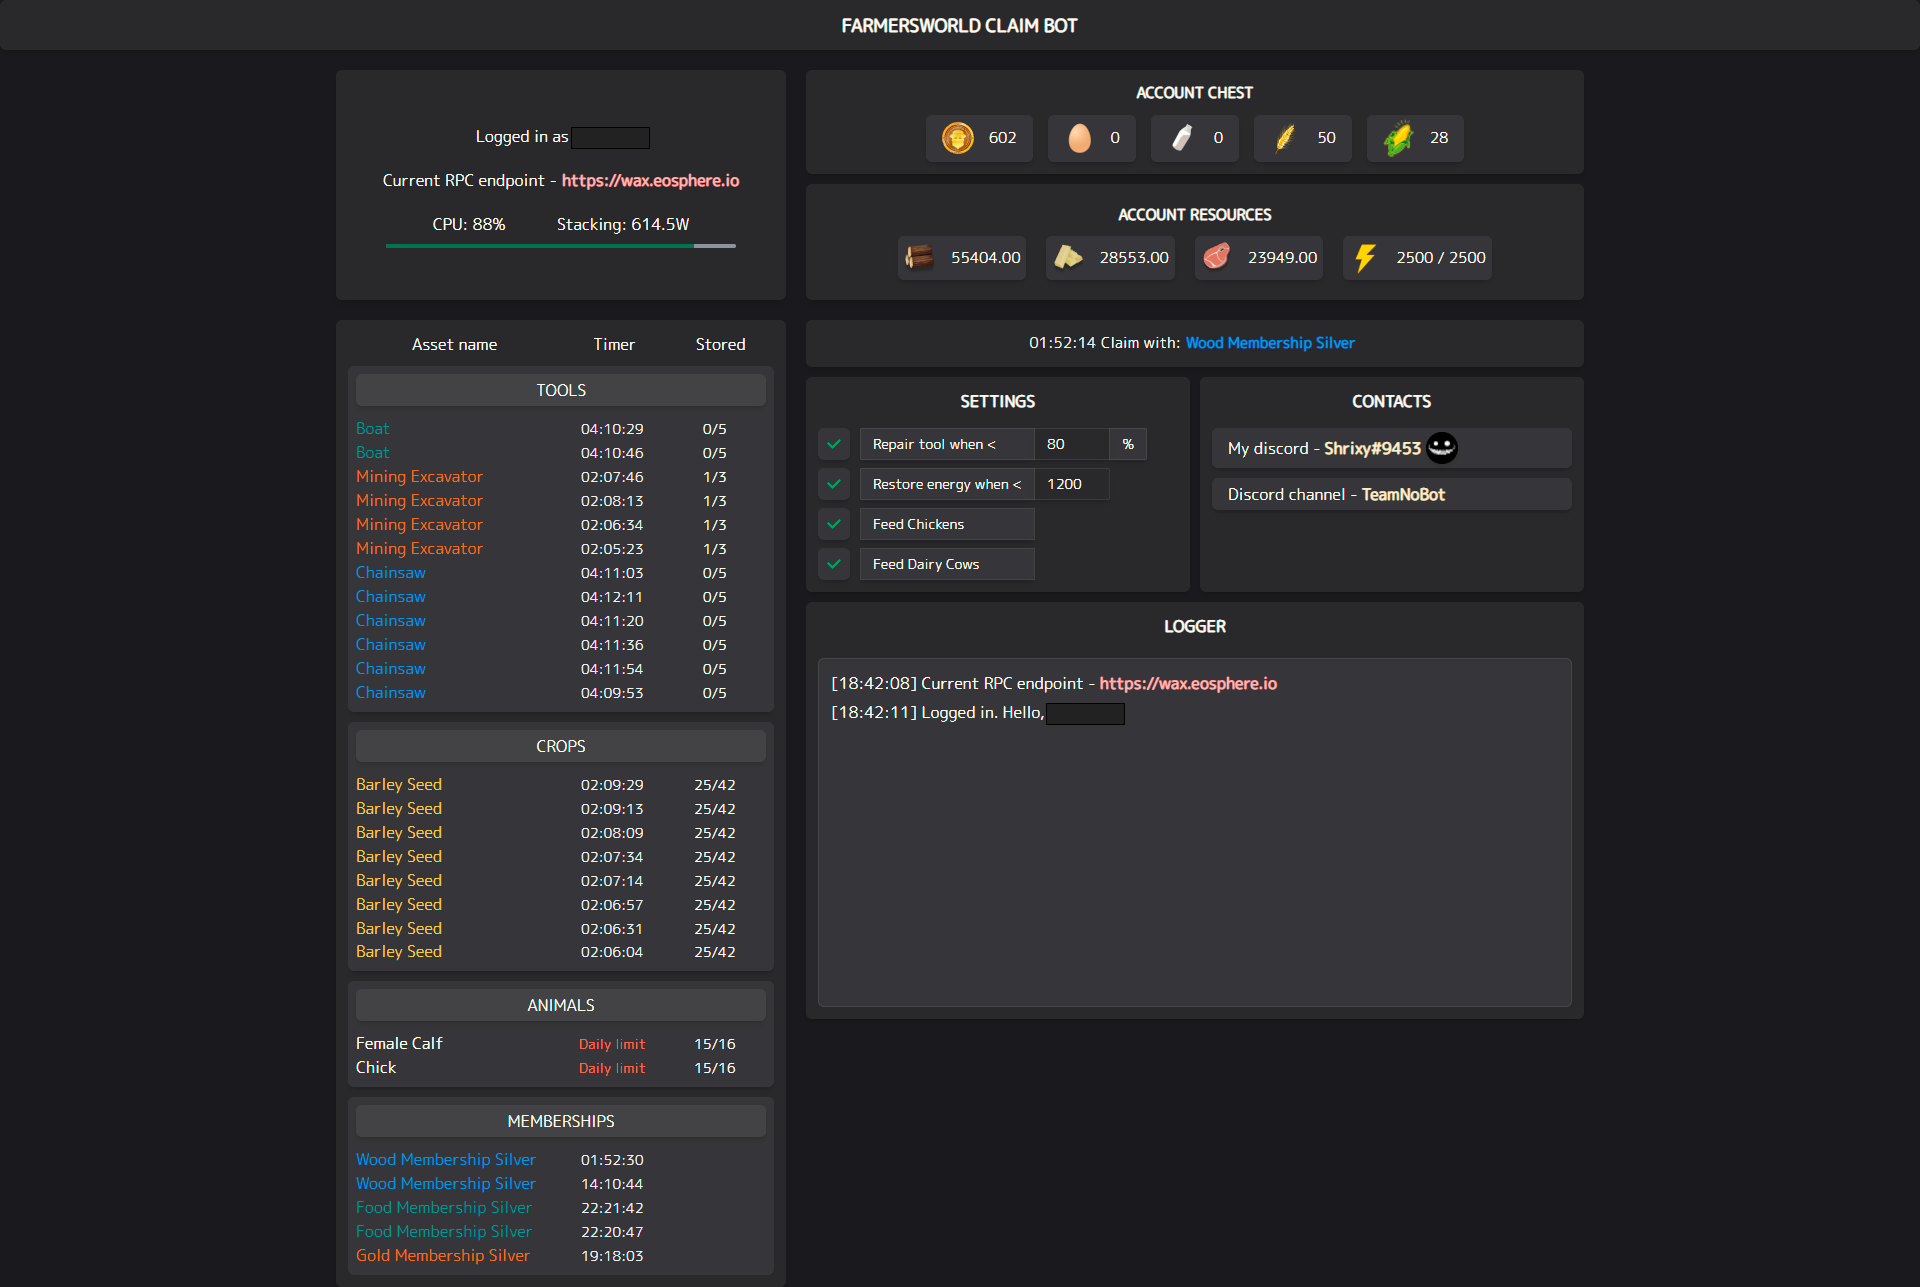
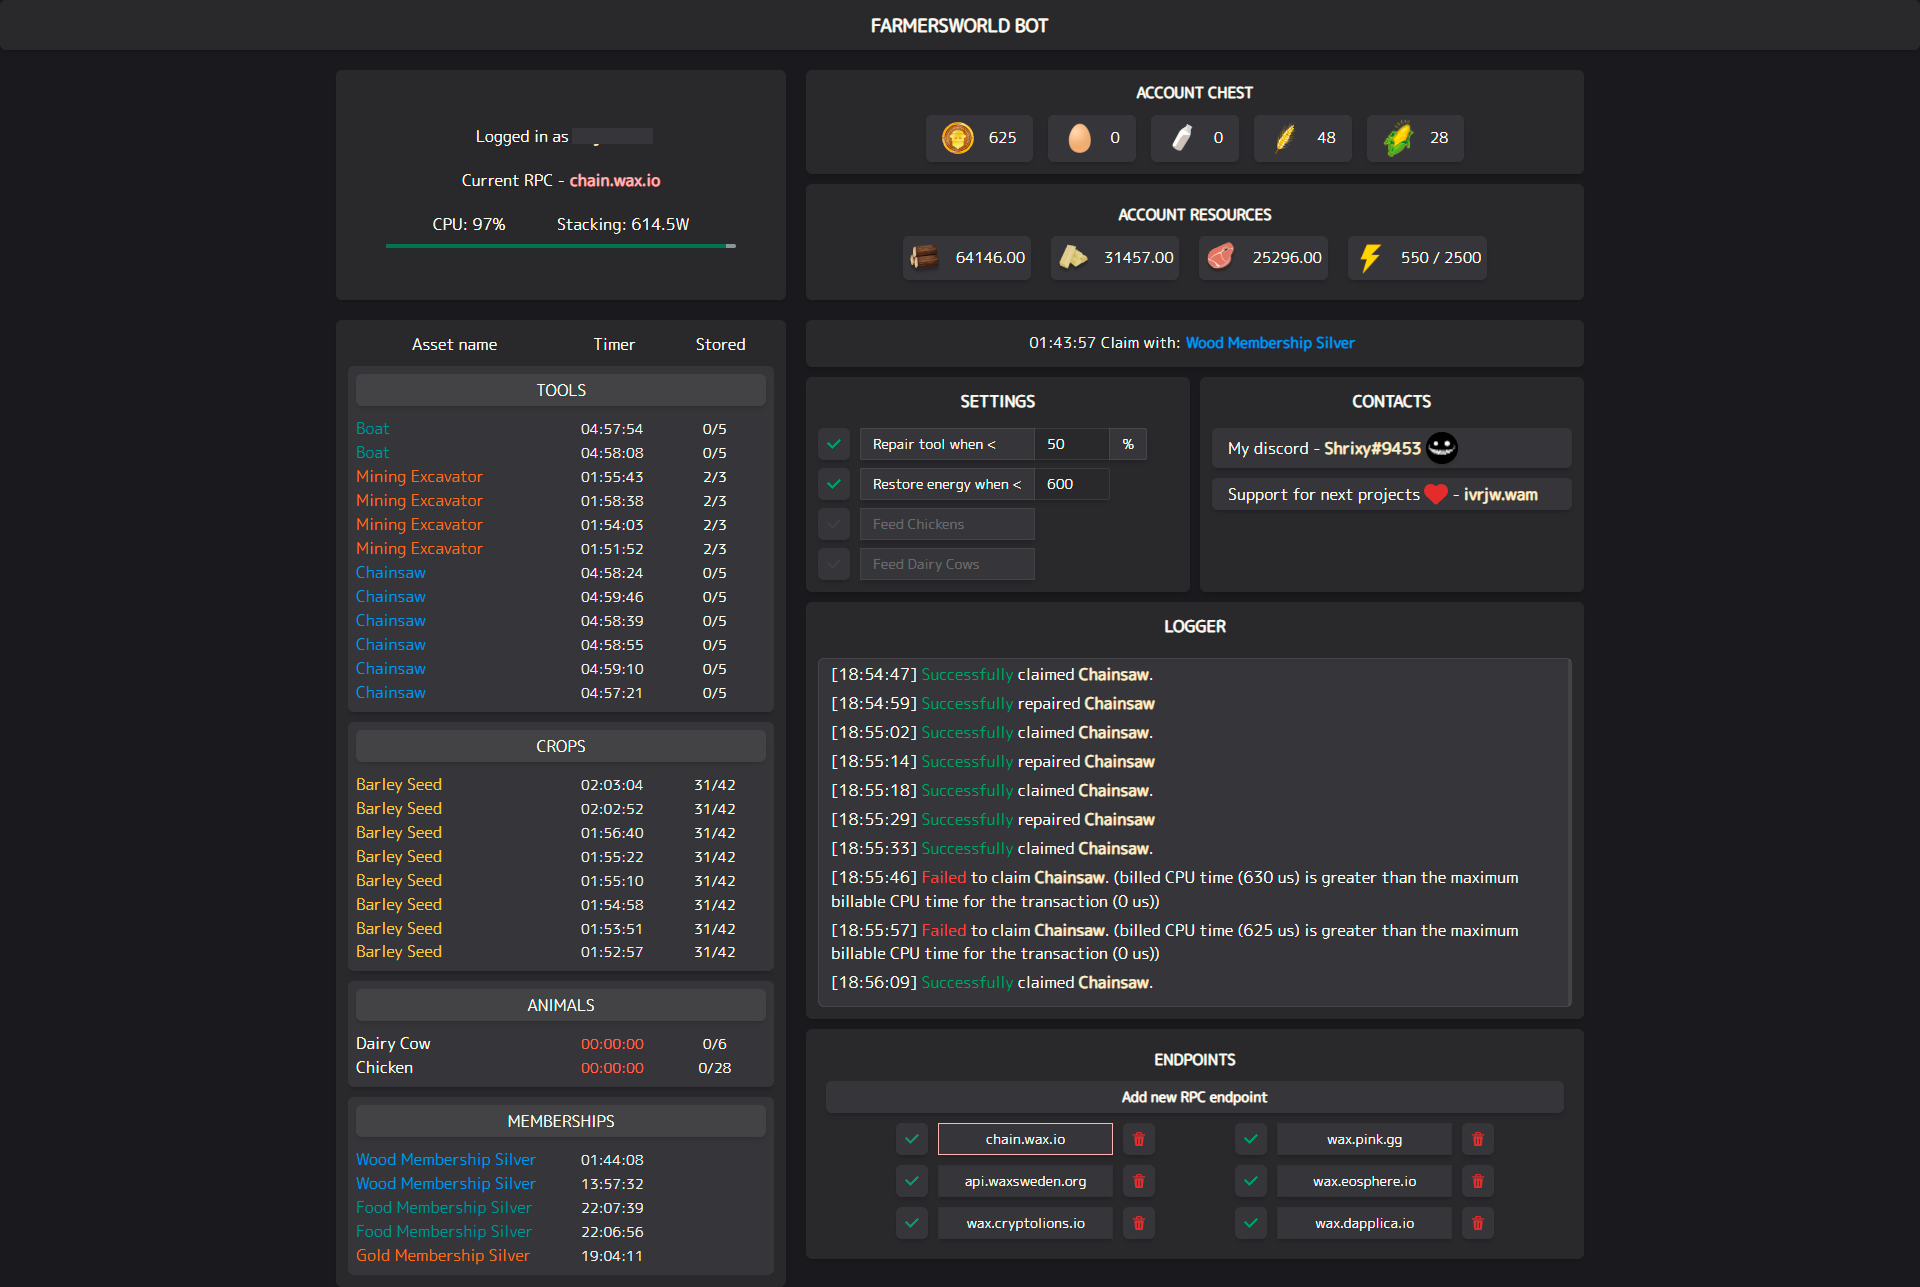
Presist endpoints array state

diff --git a/src/store/slices/endpoint.slice.ts b/src/store/slices/endpoint.slice.ts
@@ -1,4 +1,4 @@
-import { createSlice, current } from "@reduxjs/toolkit";
+import { createSlice } from "@reduxjs/toolkit";
 
 export interface Endpoint {
   url: string;
@@ -21,19 +21,7 @@ const initialEndpoints: Endpoint[] = [
     status: true,
   },
   {
-    url: "https://api.waxsweden.org",
-    status: true,
-  },
-  {
     url: "https://wax.eosphere.io",
-    status: true,
-  },
-  {
-    url: "https://wax.cryptolions.io",
-    status: true,
-  },
-  {
-    url: "https://wax.dapplica.io",
     status: true,
   },
 ];
@@ -44,7 +32,6 @@ const initialEndpointId = Math.floor(
   Math.random() * filteredEndpointsByStatus.length
 );
 const initialCurrentEndpoint = initialEndpoints[initialEndpointId];
-
 const initialState: EndpointSliceState = {
   endpointsArray: initialEndpoints,
   currentEndpointId: initialEndpointId,

diff --git a/src/store/store.ts b/src/store/store.ts
@@ -18,9 +18,14 @@ const settingsPersistConfig = {
   storage,
   blacklist: ["loggerArray", "updateData", "triggerNextAction"],
 };
+const endpointPersistConfig = {
+  key: "endpoint",
+  storage,
+  blacklist: ["currentEndpointId", "currentEndpoint"],
+};
 const reducers = combineReducers({
   user: userReducer,
-  endpoint: endpointReducer,
+  endpoint: persistReducer(endpointPersistConfig, endpointReducer),
   settings: persistReducer(settingsPersistConfig, settingsReducer),
 });
 

diff --git a/src/service/wax.ts b/src/service/wax.ts
@@ -16,6 +16,8 @@ export let wax = new waxjs.WaxJS({
   tryAutoLogin: false,
 });
 
+console.log(wax);
+
 export async function handleEndpointManipulations(
   dispatchedAction: any,
   actionType: "SWAP" | "CHANGE" | "ADD" | "DELETE" | "TOGGLE",
